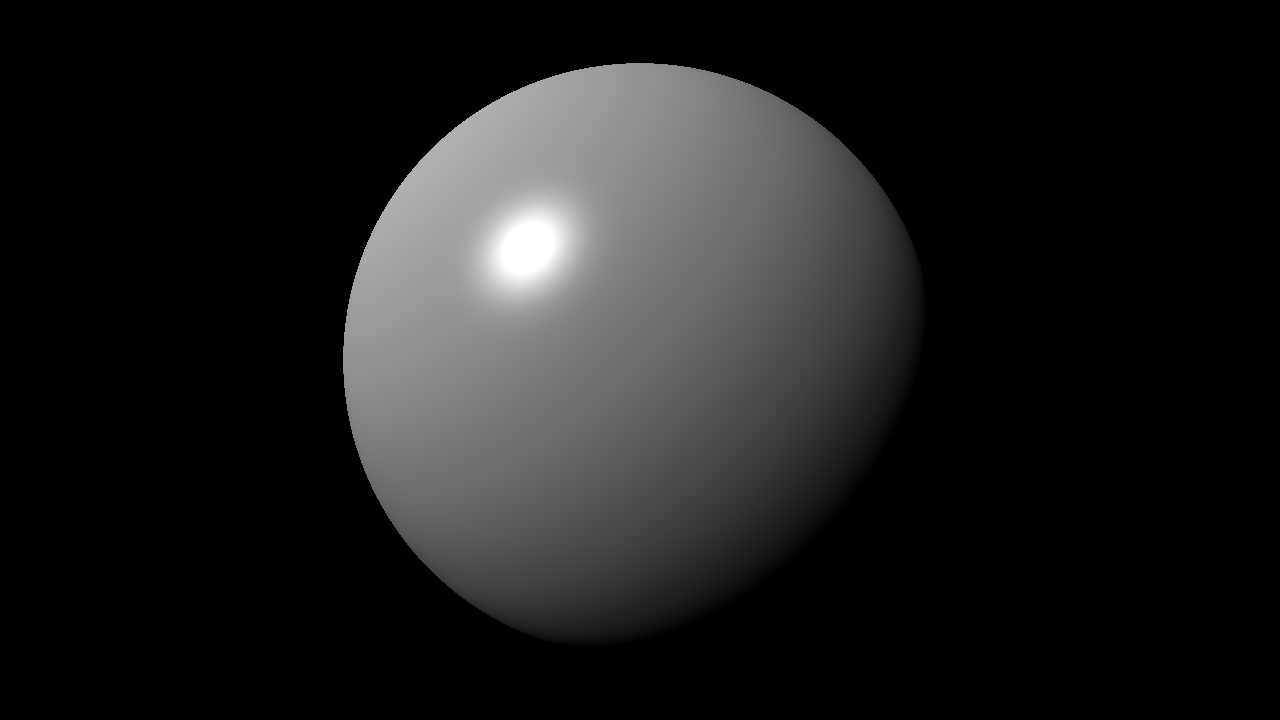
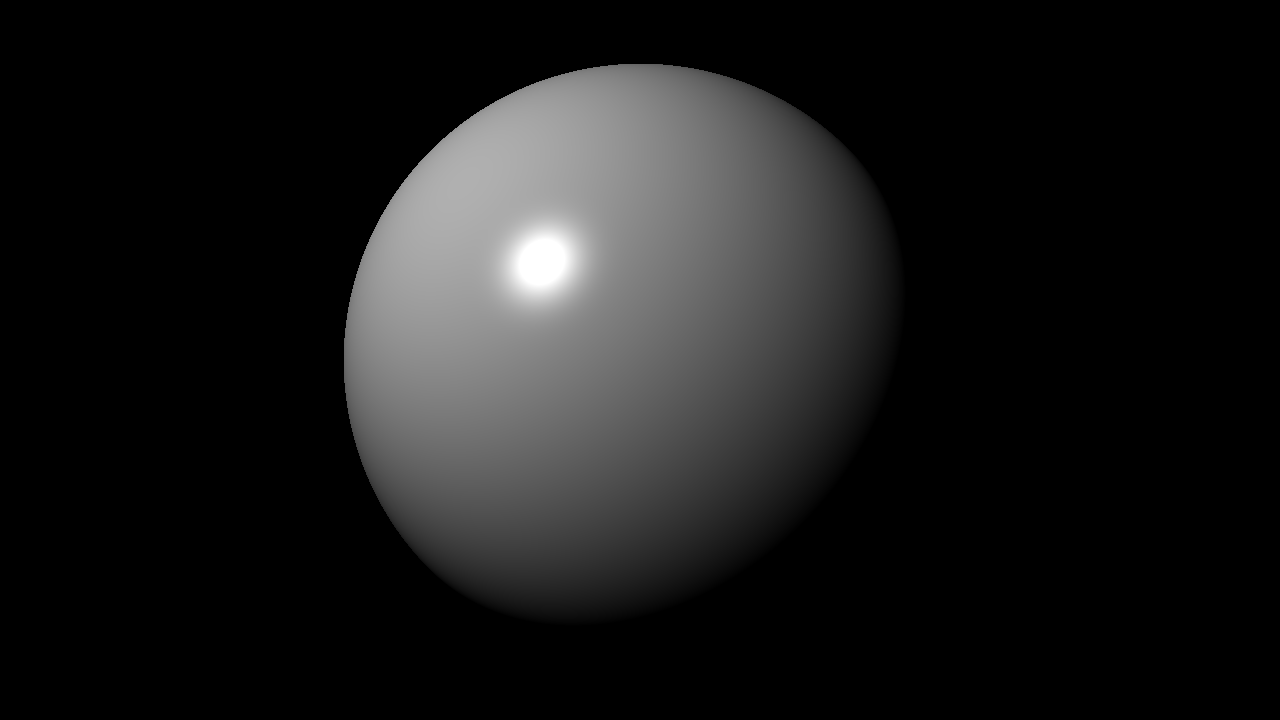
rt: fixed color blending

diff --git a/src/bin/raytrace.rs b/src/bin/raytrace.rs
@@ -657,7 +657,7 @@ impl RayTracer {
         }
 
         let next_col = self.pathtrace(scene, &mut next_ray);
-        let col = (next_col + hit.obj.mat.albedo.hadam(next_col)) / 2.0;
+        let col = next_col / 2.0 + hit.obj.mat.albedo.hadam(next_col);
 
         col * next_ray.pwr
     }

diff --git a/README.md b/README.md
@@ -19,7 +19,7 @@ raytrace --obj sph r: 0.2 rough: 1 \
          --obj pln n: -1 0 0 pos: 1 0 0 albedo: 0 1 0 rough: 1 \
          --obj pln n: 1 0 0 pos: -1 0 0 albedo: 1 0 0 rough: 1 \
          --obj pln n: 0 -1 0 pos: 0 1 0 rough: 1 \
-         --cam fov: 60 gamma: 0.7 exp: 0.25 \
+         --cam fov: 60 gamma: 0.8 exp: 0 \
          --bounce 256 --sample 1024 \
          --res 1920 1080 --ssaa 2
 ```
